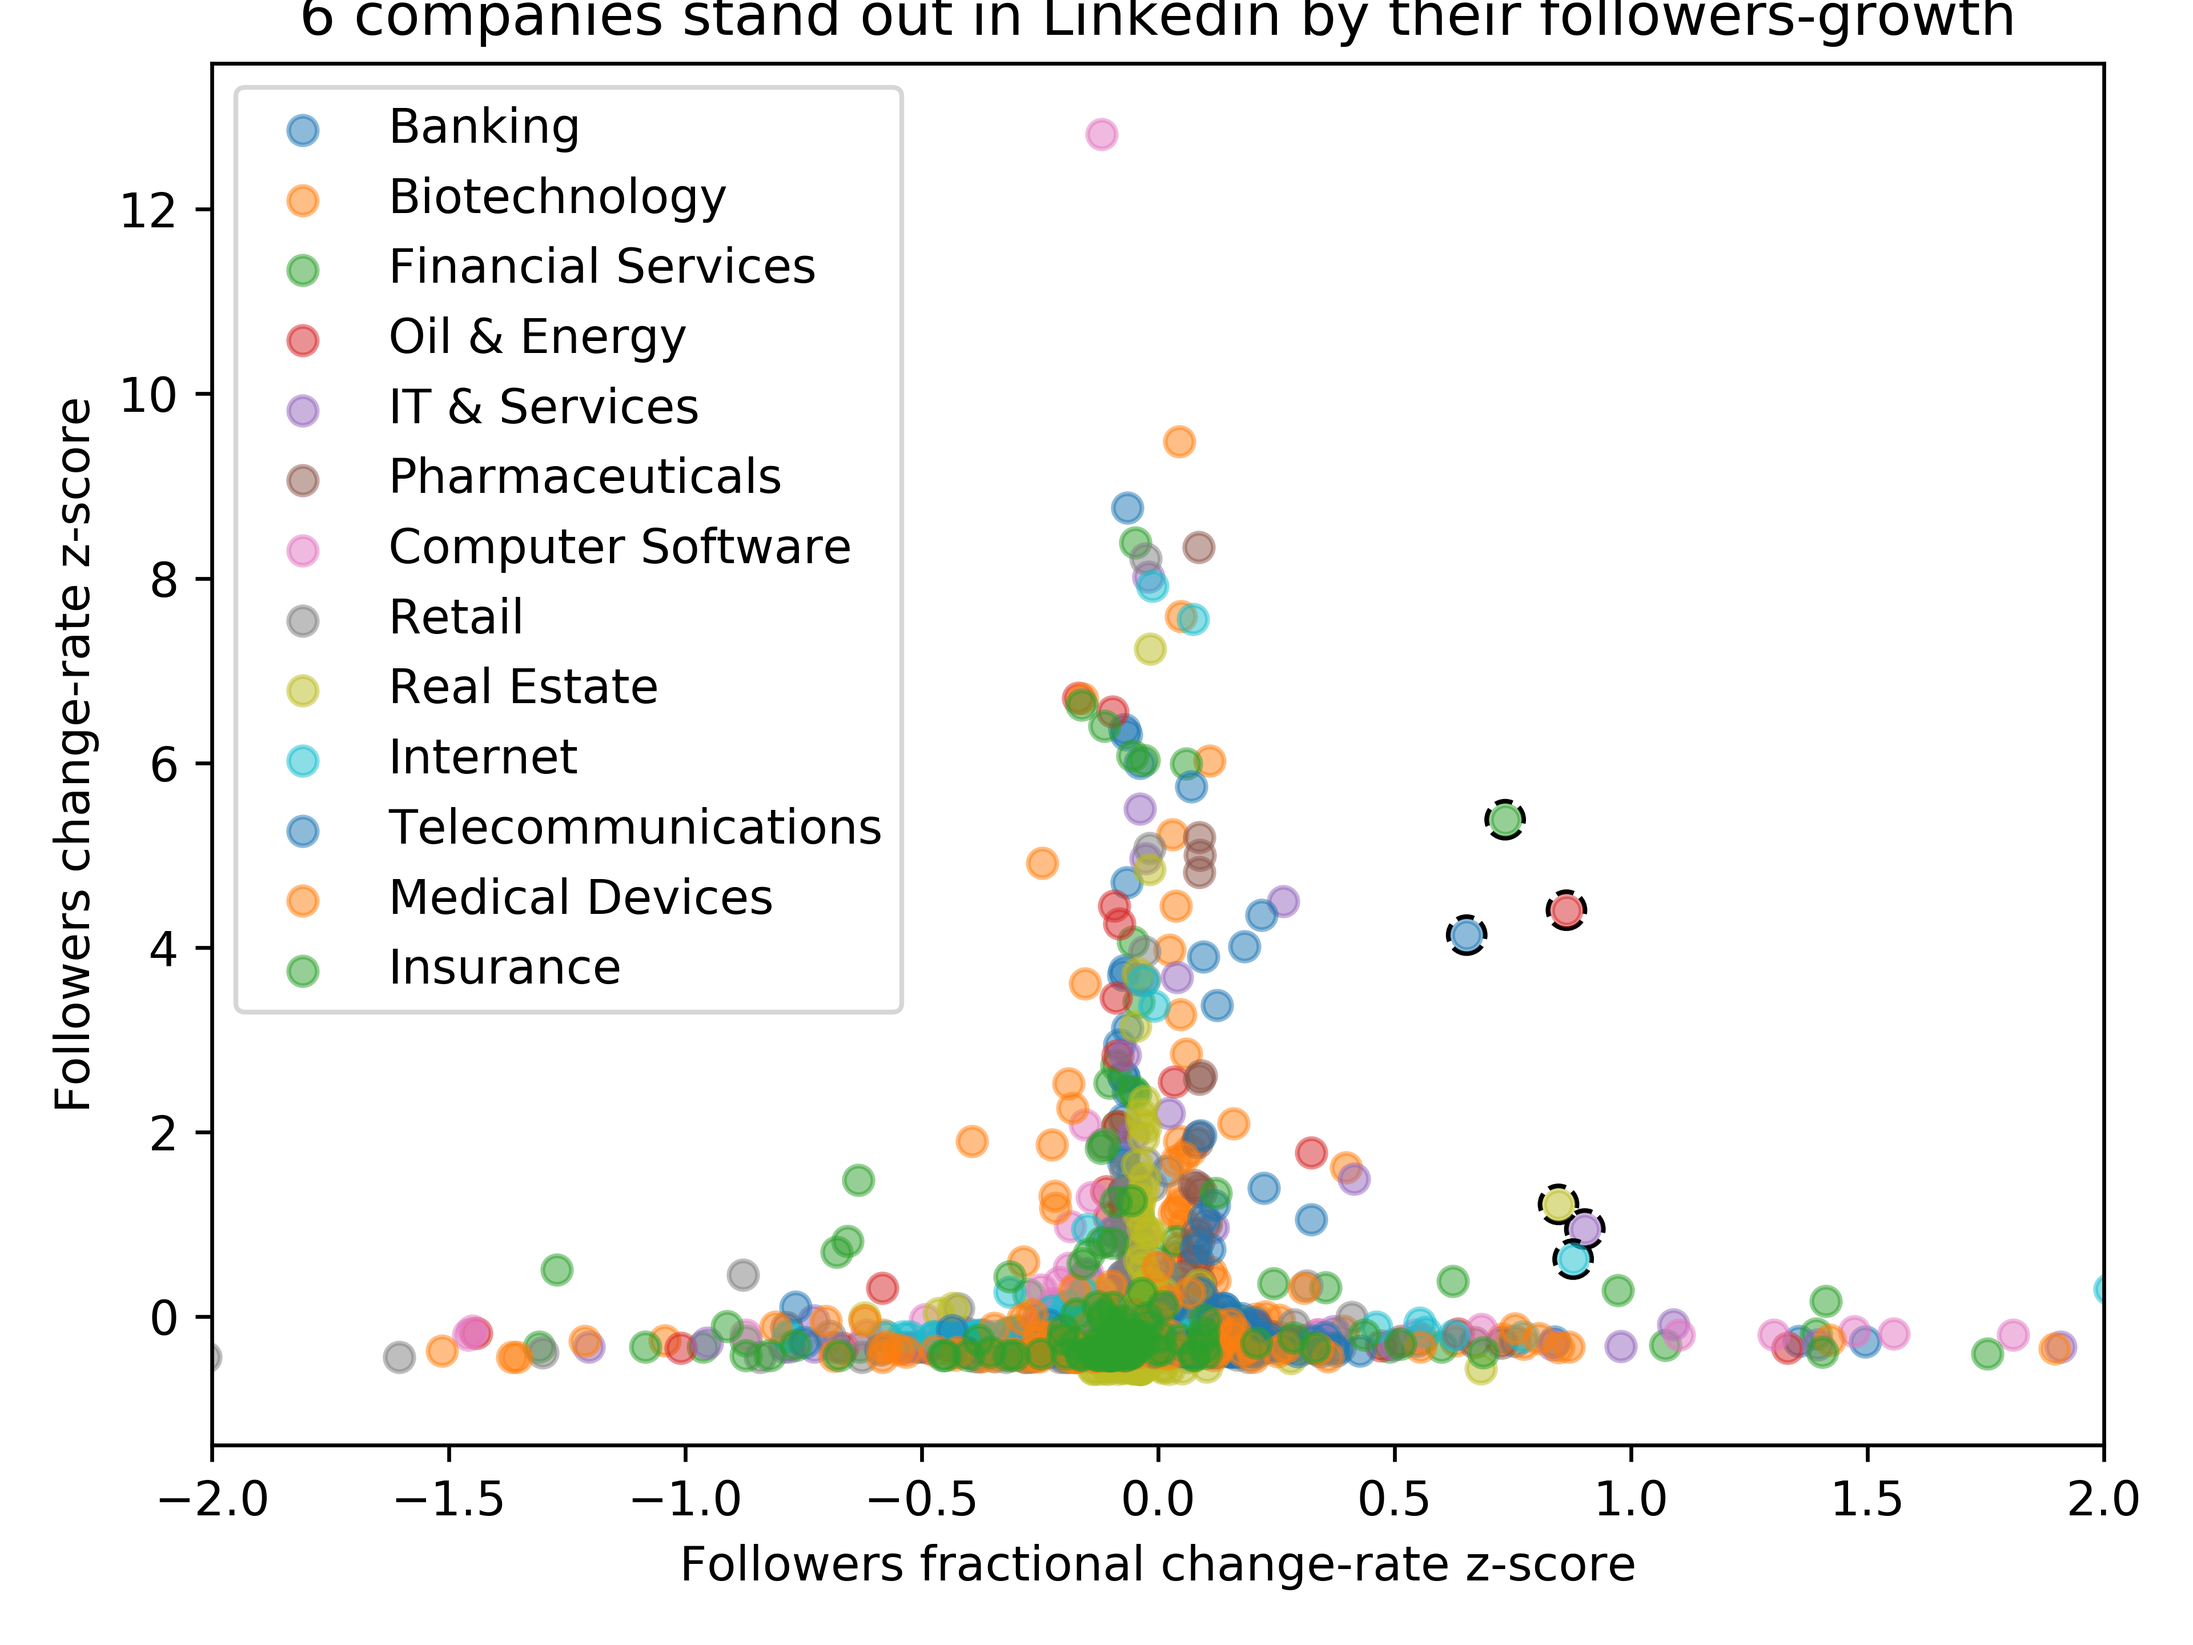
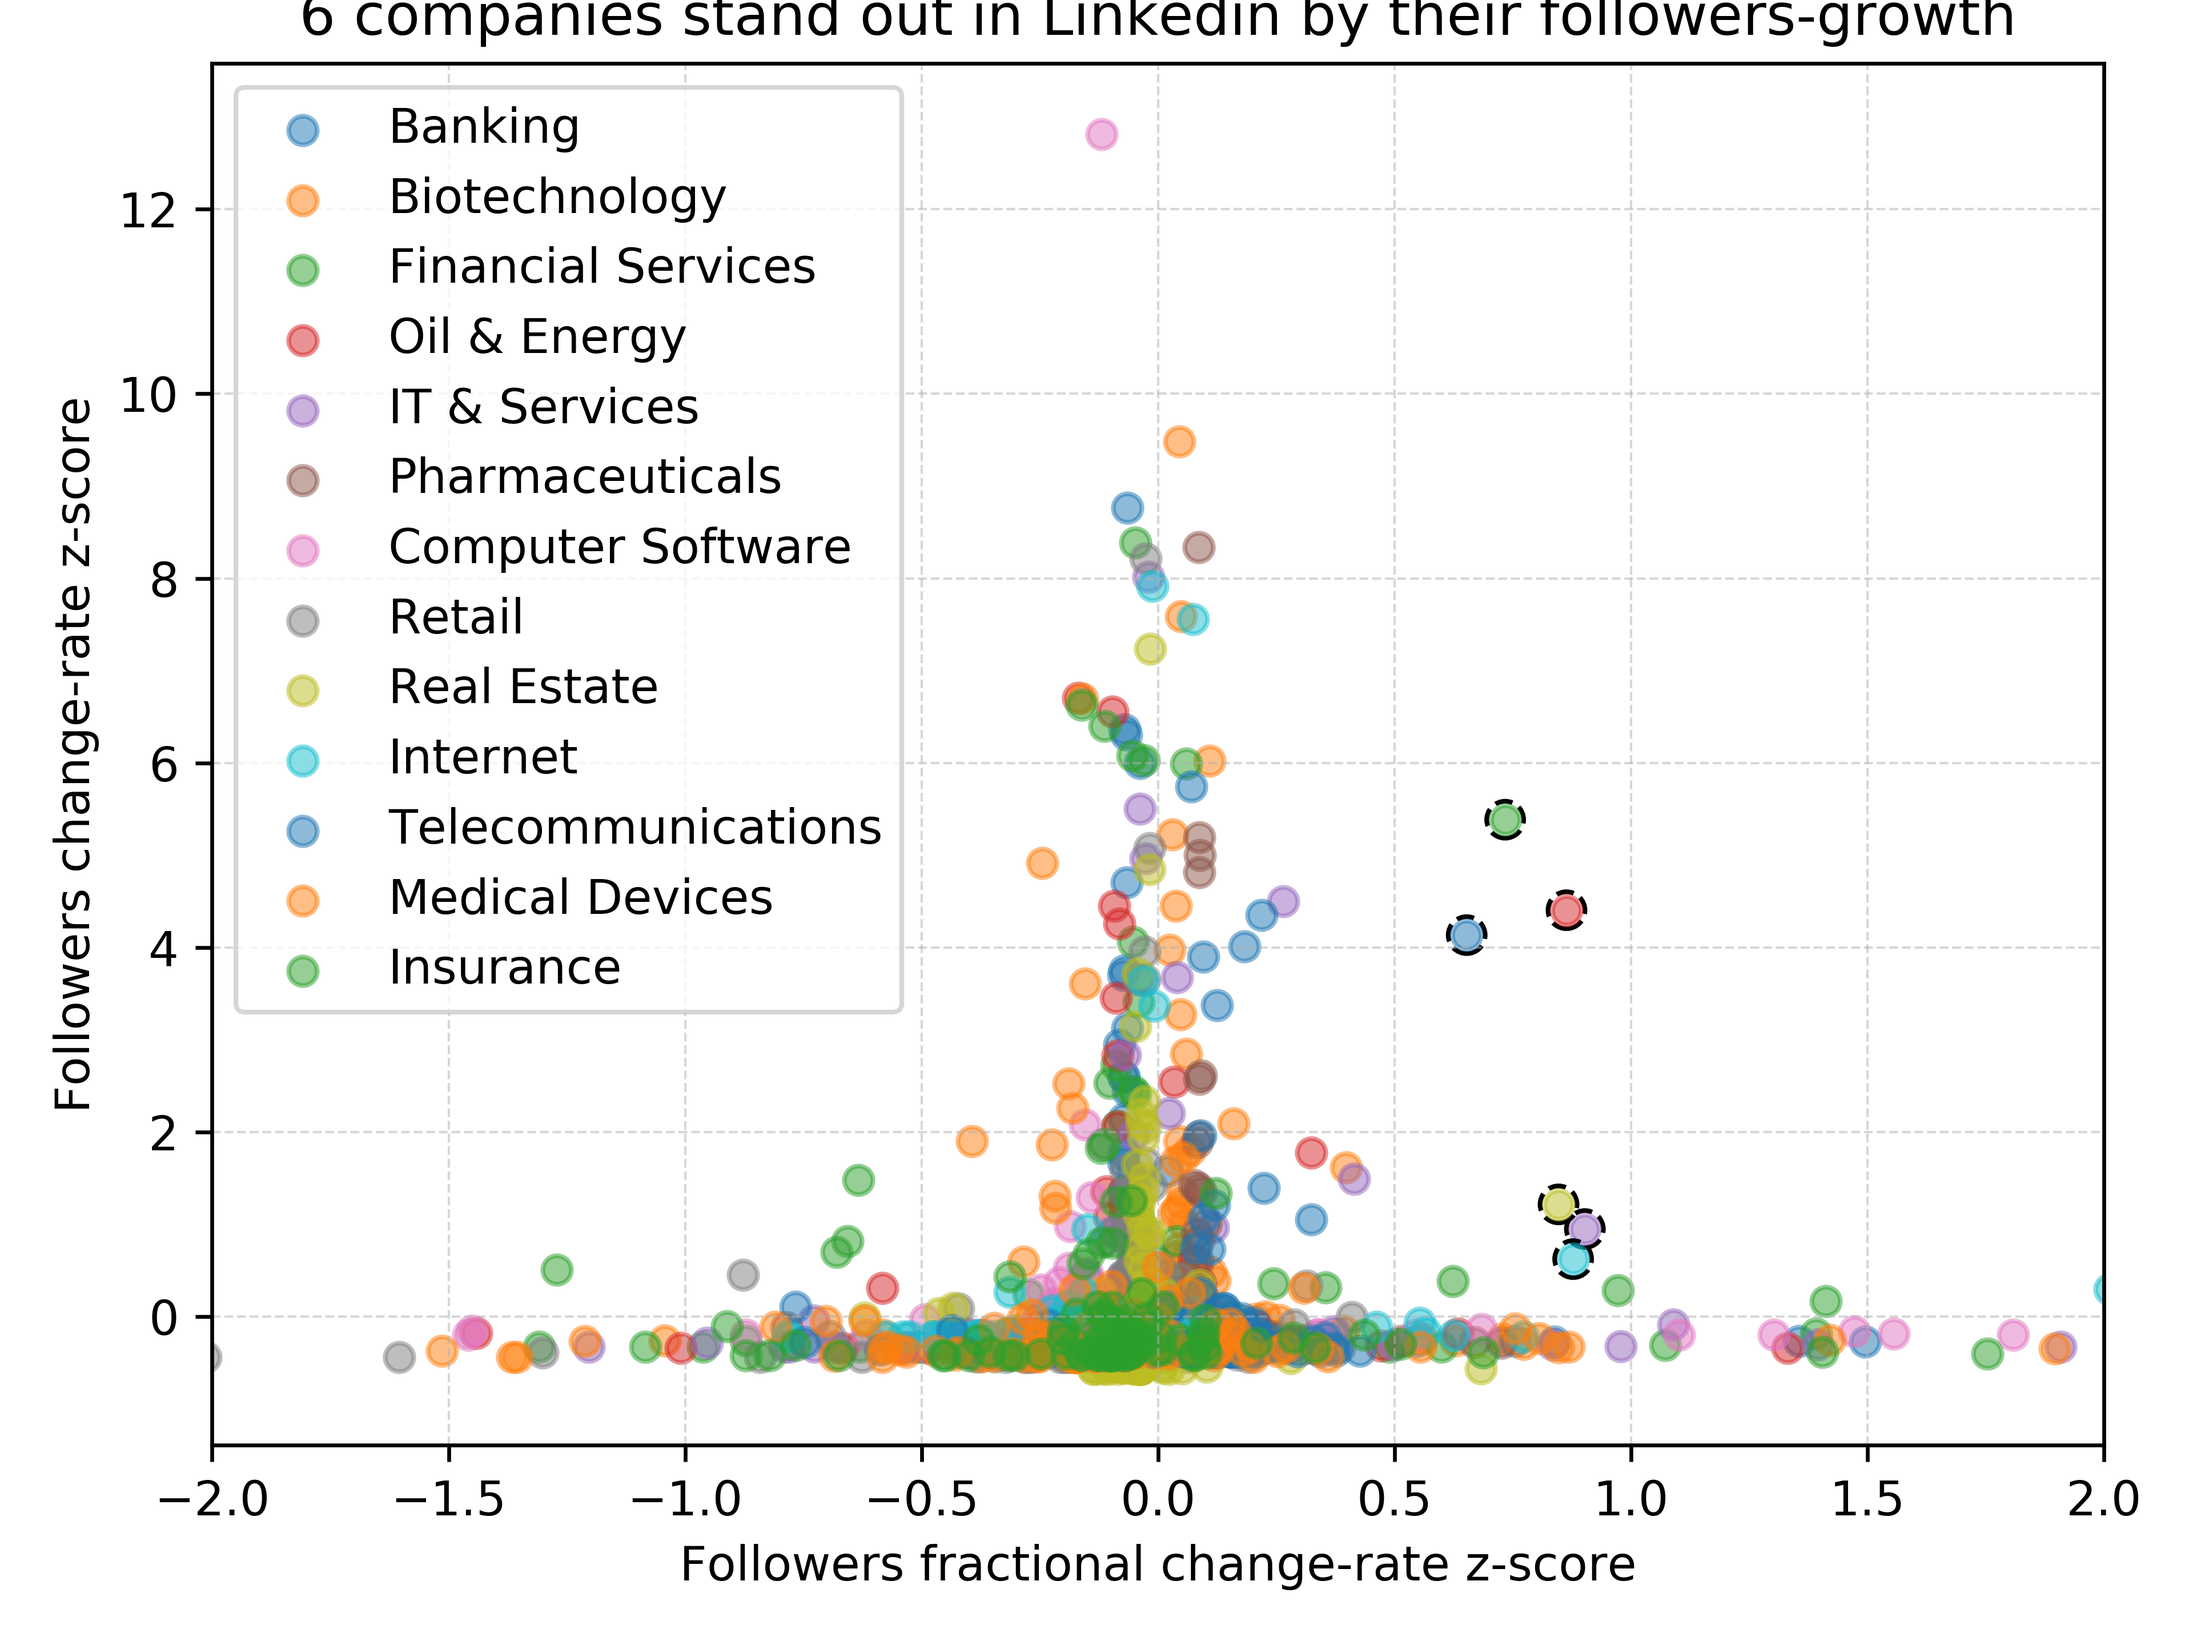
Grid on figures

diff --git a/project/project.py b/project/project.py
@@ -125,6 +125,7 @@ plt.legend(handles,labels,loc = 'upper left')
 plt.tight_layout()
 plt.title('6 companies stand out in Linkedin by their followers-growth')
 #plt.show()
+plt.grid(linestyle='--', linewidth=0.5,alpha=0.5)
 fig.savefig('FIG1.png',dpi=600)
 
 good = topdf[(topdf['z-score1']>cut) & (topdf['z-score2']>cut)]
@@ -152,7 +153,7 @@ plt.ylabel('Followers change-rate [counts/month]')
 box = ax.get_position()
 ax.set_position([box.x0, box.y0, box.width * 0.7, box.height])
 plt.legend(handles,labels,loc='center left', bbox_to_anchor=(1, 0.5))
-#plt.tight_layout()
+plt.grid(linestyle='--', linewidth=0.5,alpha=0.5)
 plt.title('Followers change-rate is proportional to followers size pool')
 #plt.show()
 fig.savefig('FIG2.png',dpi=600)
